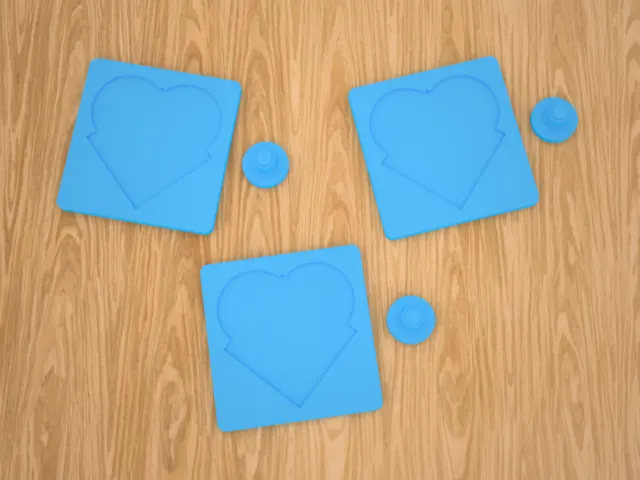
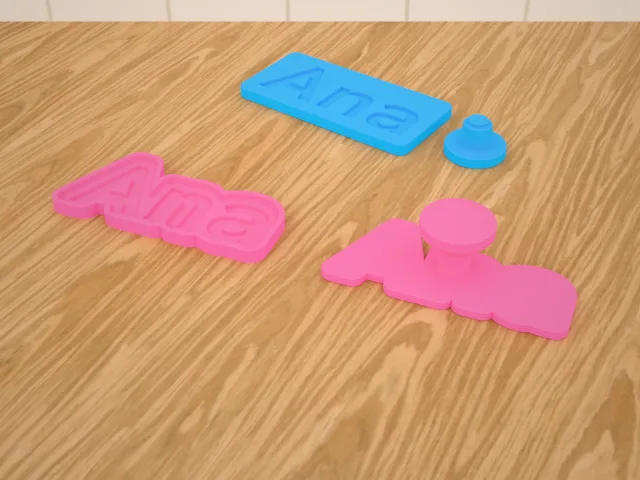
feat: forma para massinha de EVA no molde de carimbo: cavidade, ângulo de saída e costas com apoio de polegar (#252)

diff --git a/src/qa/cases.ts b/src/qa/cases.ts
@@ -63,7 +63,7 @@ export async function modelCtx(M: ManifoldToplevel, p: Params, def: ModelDef): P
 }
 
 /** Variações extras por modelo (além de padrão, mínimo e máximo): opções que mudam a peça e precisam fatiar também. */
-const QA_EXTRA: Record<string, Record<string, Params>> = { starMap: { "estrelas vazadas": { hollow: true, density: "few" } }, musicCard: { QR: { code: "qr", codeSize: 44 } }, wallLetters: { "FESTA 600 mm (muitas partes)": { height: 600 } }, kitBicho: { saurópode: { head: "sauro", tail: "thick" }, "T-rex": { head: "trex", tail: "thick" } }, aroma: { "teste da rosca": { print: "test" }, "sem olhal, folga larga": { keyring: false, clearance: 0.6 }, "feltro grande, muitos furos": { feltDiameter: 45, holes: 16, holeDiameter: 3 }, coração: { shape: "heart" }, gota: { shape: "drop", edge: "chamfer" }, hexágono: { shape: "hex", knurl: false, edge: "none" } }, openerImage: { lata: { kind: "can" }, "abridor à direita, argola à esquerda": { openerSide: "right", ringSide: "left" }, "abridor fora do desenho": { fit: false }, "abridor dentro do desenho (manual)": { fit: false, overlap: 15 }, "sem borda levantada": { rim: false } }, cupHandle: { "anel de teste": { print: "test" }, "copo pequeno": { baseDiameter: 62, topDiameter: 78, bodyHeight: 165, gripZ: 45, sleeveHeight: 35 }, "nome gravado": { nameMode: "engraved" }, "luva vazada": { sleeveStyle: "cutouts" }, "luva com faixas": { sleeveStyle: "bands" }, "sem marcas de dedo, sem fantasma": { grooves: false, showCup: false } }, kitCard: { veículo: { mode: "vehicle" }, "vários cartões": { cardSize: "medium", ribs: 3, spines: 1, copies: 4 }, "uma placa lateral": { spines: 1 } }, candyMold: { "forma de teste": { print: "test" }, estrela: { shape: "star", stampText: "Ana" }, flor: { shape: "flower" }, barrinha: { shape: "bar", weight: 40, depth: 12 } }, drainCover: { "só cobre": { style: "cover" }, "com furos": { style: "strainer" } }, funnel: { "sem borda reforçada": { bead: false } }, oring: { "sem achatar": { flat: false } }, boardBox: { "bandeja de teste": { print: "test" }, parafuso: { mount: "screws" }, "Raspberry Pi 4": { boardL: 85, boardW: 56, boardT: 1.4, holes: "3.5, 3.5; 61.5, 3.5; 3.5, 52.5; 61.5, 52.5", holeD: 2.7, connectors: "right, 10.25, 16.5, 14, 0\nright, 29, 15, 16, 0\nright, 47, 15, 16, 0\nbottom, 11.2, 9.5, 4, 0\nbottom, 26, 8, 4, 0" }, "sem furos (só apoios)": { holes: "", mount: "pads", boardL: 51.5, boardW: 28.3, connectors: "left, 14.2, 9, 4.5, 0" } }, spoolHolder: { "eixo em 2 partes": { axleParts: "two" }, "parede grossa": { axleWall: 8 } }, drillJig: { "sem batente": { lip: false } }, radiusGauge: { "raios grandes": { radii: "10; 12; 15; 20; 25; 30" } }, slingshot: { "nome gravado": { nameMode: "engraved" }, "sem nome": { nameMode: "none" } }, phoneCase: { "peça de teste": { print: "test" }, X: { pattern: "cross" }, "com nome": { name: "Ana", pattern: "smooth" } } };
+const QA_EXTRA: Record<string, Record<string, Params>> = { starMap: { "estrelas vazadas": { hollow: true, density: "few" } }, musicCard: { QR: { code: "qr", codeSize: 44 } }, wallLetters: { "FESTA 600 mm (muitas partes)": { height: 600 } }, kitBicho: { saurópode: { head: "sauro", tail: "thick" }, "T-rex": { head: "trex", tail: "thick" } }, aroma: { "teste da rosca": { print: "test" }, "sem olhal, folga larga": { keyring: false, clearance: 0.6 }, "feltro grande, muitos furos": { feltDiameter: 45, holes: 16, holeDiameter: 3 }, coração: { shape: "heart" }, gota: { shape: "drop", edge: "chamfer" }, hexágono: { shape: "hex", knurl: false, edge: "none" } }, openerImage: { lata: { kind: "can" }, "abridor à direita, argola à esquerda": { openerSide: "right", ringSide: "left" }, "abridor fora do desenho": { fit: false }, "abridor dentro do desenho (manual)": { fit: false, overlap: 15 }, "sem borda levantada": { rim: false } }, cupHandle: { "anel de teste": { print: "test" }, "copo pequeno": { baseDiameter: 62, topDiameter: 78, bodyHeight: 165, gripZ: 45, sleeveHeight: 35 }, "nome gravado": { nameMode: "engraved" }, "luva vazada": { sleeveStyle: "cutouts" }, "luva com faixas": { sleeveStyle: "bands" }, "sem marcas de dedo, sem fantasma": { grooves: false, showCup: false } }, kitCard: { veículo: { mode: "vehicle" }, "vários cartões": { cardSize: "medium", ribs: 3, spines: 1, copies: 4 }, "uma placa lateral": { spines: 1 } }, candyMold: { "forma de teste": { print: "test" }, estrela: { shape: "star", stampText: "Ana" }, flor: { shape: "flower" }, barrinha: { shape: "bar", weight: 40, depth: 12 } }, drainCover: { "só cobre": { style: "cover" }, "com furos": { style: "strainer" } }, funnel: { "sem borda reforçada": { bead: false } }, oring: { "sem achatar": { flat: false } }, boardBox: { "bandeja de teste": { print: "test" }, parafuso: { mount: "screws" }, "Raspberry Pi 4": { boardL: 85, boardW: 56, boardT: 1.4, holes: "3.5, 3.5; 61.5, 3.5; 3.5, 52.5; 61.5, 52.5", holeD: 2.7, connectors: "right, 10.25, 16.5, 14, 0\nright, 29, 15, 16, 0\nright, 47, 15, 16, 0\nbottom, 11.2, 9.5, 4, 0\nbottom, 26, 8, 4, 0" }, "sem furos (só apoios)": { holes: "", mount: "pads", boardL: 51.5, boardW: 28.3, connectors: "left, 14.2, 9, 4.5, 0" } }, spoolHolder: { "eixo em 2 partes": { axleParts: "two" }, "parede grossa": { axleWall: 8 } }, drillJig: { "sem batente": { lip: false } }, radiusGauge: { "raios grandes": { radii: "10; 12; 15; 20; 25; 30" } }, slingshot: { "nome gravado": { nameMode: "engraved" }, "sem nome": { nameMode: "none" } }, stampMold: { "forma para massinha": { kind: "clay" }, "forma para massinha invertida, sem saída": { kind: "clay", invert: true, draft: 0 }, "forma no mínimo": { kind: "clay", size: 40, cavity: 3, clayRelief: 0.6, border: 2, wall: 1.2, draft: 0, thumbSize: 15 }, "forma no máximo": { kind: "clay", size: 300, cavity: 6, clayRelief: 3, border: 20, wall: 4, draft: 3, bridge: 5, thumbSize: 45 } }, phoneCase: { "peça de teste": { print: "test" }, X: { pattern: "cross" }, "com nome": { name: "Ana", pattern: "smooth" } } };
 
 /** Padrão, todos os campos numéricos no mínimo e todos no máximo (mais as variações extras do modelo). */
 export function variants(def: ModelDef): [QaCase["variant"], Params][] {

diff --git a/src/geometry/models/stampMold.ts b/src/geometry/models/stampMold.ts
@@ -1,9 +1,11 @@
 import { bedMm } from "../bed";
-import type { CS } from "../manifold";
+import type { CS, Solid } from "../manifold";
 import { fitInto, scoped } from "../shape2d";
-import { MissingInput, roundedRect, solidMesh, type ModelCtx, type ModelOutput } from "./common";
+import { MissingInput, moveMesh, roundedRect, solidMesh, type ModelCtx, type ModelOutput } from "./common";
 
 export type StampMoldParams = {
+  /** "plate": placa para prensar a folha de EVA aquecida; "clay": forma com cavidade para encher de massinha de EVA (#252). */
+  kind?: "plate" | "clay";
   text: string;
   /** Lado maior do desenho. */
   size: number;
@@ -19,6 +21,12 @@ export type StampMoldParams = {
   thumbX: number;
   thumbY: number;
   color: string;
+  /** Só na forma para massinha: borda da base do carimbo em volta do desenho, profundidade da cavidade, quanto o desenho fica mais fundo, parede e ângulo de saída (°). */
+  border?: number;
+  cavity?: number;
+  clayRelief?: number;
+  wall?: number;
+  draft?: number;
 };
 
 export const DEFAULT_STAMP_MOLD: StampMoldParams = {
@@ -34,6 +42,12 @@ export const DEFAULT_STAMP_MOLD: StampMoldParams = {
   thumbX: 0,
   thumbY: 0,
   color: "#0ea5e9",
+  kind: "plate",
+  border: 4,
+  cavity: 4,
+  clayRelief: 1.5,
+  wall: 2,
+  draft: 2,
 };
 
 const CORNER = 4;
@@ -64,6 +78,7 @@ export function buildStampMold(ctx: ModelCtx, p: StampMoldParams): ModelOutput {
     if (!src || src.isEmpty()) throw new MissingInput("Envie um desenho ou digite um texto para ver o molde.");
     if (src !== ctx.art) k(src);
     const design = k(moldDesign(src, p.size, p.bridge));
+    if (p.kind === "clay") return clayMold(M, design, p);
     const b = design.bounds();
     const w = b.max[0] - b.min[0] + 2 * p.margin, h = b.max[1] - b.min[1] + 2 * p.margin;
     const cx = (b.min[0] + b.max[0]) / 2, cy = (b.min[1] + b.max[1]) / 2;
@@ -91,5 +106,75 @@ export function buildStampMold(ctx: ModelCtx, p: StampMoldParams): ModelOutput {
     models.unshift({ name: "Molde", parts: [{ name: "Molde", color: p.color, mesh: solidMesh(plate) }] });
     const warnings = Math.max(w, h) > bedMm() ? [`O molde tem ${Math.round(Math.max(w, h))} mm: passa da mesa de ${bedMm()} mm.`] : [];
     return { models, warnings };
+  });
+}
+
+const CLAY_FLOOR = 1.6; // fundo da forma, embaixo da cavidade
+const BACK_H = 3;
+const SLICE = 0.2; // a saída é feita em degraus de uma camada
+const CLAY_NOTE = "Passe spray antiaderente na forma, encha com massinha de EVA apertando bem nos cantos, alise rente à borda e deixe secar de 1 a 2 dias antes de desenformar. Depois cole as costas no carimbo com cola de EVA ou cola quente.";
+
+/**
+ * Forma para massinha de EVA (#252): cavidade com a base do carimbo (o desenho mais a borda, que liga as partes soltas)
+ * e o desenho mais fundo, paredes com ângulo de saída para desenformar, e as costas com apoio de polegar, que se colam
+ * no carimbo seco. O desenho sai legível na forma: o carimbo virado carimba do jeito certo. Imprime sem suporte.
+ */
+function clayMold(M: ModelCtx["M"], design: CS, p: StampMoldParams): ModelOutput {
+  return scoped((k) => {
+    const cavity = p.cavity ?? 4, wall = p.wall ?? 2;
+    const relief = Math.min(p.clayRelief ?? 1.5, cavity - 1);
+    const tan = Math.tan(((p.draft ?? 0) * Math.PI) / 180);
+    const grow = cavity * tan;
+    const slab = k(k(design.offset((p.border ?? 4) + p.bridge, "Round")).offset(-p.bridge, "Round"));
+    const deep = p.invert ? k(slab.subtract(design)) : design;
+    const top = CLAY_FLOOR + cavity;
+    // cada degrau: a base a partir de onde começa e a região funda desde o fundo, as duas abrindo com a saída
+    const n = tan > 0 ? Math.ceil(cavity / SLICE) : 1;
+    const dz = cavity / n;
+    const steps: Solid[] = [];
+    for (let i = 0; i < n; i++) {
+      const z = CLAY_FLOOR + i * dz;
+      const level = (cs: CS, from: number) => (tan > 0 && z > from ? k(cs.offset((z - from) * tan, "Round")) : cs);
+      const ring = z + 1e-6 >= CLAY_FLOOR + relief ? k(M.CrossSection.union([level(deep, CLAY_FLOOR), level(slab, CLAY_FLOOR + relief)])) : level(deep, CLAY_FLOOR);
+      steps.push(k(k(ring.extrude(dz + (i === n - 1 ? 1 : 0.001))).translate([0, 0, z])));
+    }
+    if (tan === 0) steps.push(k(k(slab.extrude(cavity - relief + 1)).translate([0, 0, CLAY_FLOOR + relief])));
+    const outer = k(k(slab.offset(wall + grow, "Round")).extrude(top));
+    const mold = k(outer.subtract(k(M.Manifold.union(steps))));
+    // costas: o contorno de cima do carimbo, com o apoio de polegar (haste, aba a 45° e disco) em pé, sem suporte
+    const back = k(slab.offset(grow, "Round"));
+    const bb = back.bounds();
+    const parts: Solid[] = [k(back.extrude(BACK_H))];
+    if (p.thumb) {
+      const R = p.thumbSize / 2, r = R * 0.45;
+      const cx = (bb.min[0] + bb.max[0]) / 2, cy = (bb.min[1] + bb.max[1]) / 2;
+      const x = Math.max(bb.min[0] + r, Math.min(bb.max[0] - r, cx + p.thumbX));
+      const y = Math.max(bb.min[1] + r, Math.min(bb.max[1] - r, cy + p.thumbY));
+      const stemH = BACK_H + 10;
+      parts.push(
+        k(
+          k(
+            M.Manifold.union([
+              k(M.Manifold.cylinder(stemH, r, r, 48)),
+              k(k(M.Manifold.cylinder(R - r, r, R, 64)).translate([0, 0, stemH])),
+              k(k(M.Manifold.cylinder(PAD_H, R, R, 64)).translate([0, 0, stemH + R - r])),
+            ]),
+          ).translate([x, y, 0]),
+        ),
+      );
+    }
+    const backSolid = k(M.Manifold.union(parts));
+    const mb = mold.boundingBox();
+    const shift = mb.max[0] - bb.min[0] + GAP + (p.thumb ? p.thumbSize / 2 : 0);
+    const w = mb.max[0] - mb.min[0], h = mb.max[1] - mb.min[1];
+    const warnings = [CLAY_NOTE];
+    if (Math.max(w, h) > bedMm()) warnings.push(`A forma tem ${Math.round(Math.max(w, h))} mm: passa da mesa de ${bedMm()} mm.`);
+    return {
+      models: [
+        { name: "Forma", parts: [{ name: "Forma", color: p.color, mesh: solidMesh(mold) }] },
+        { name: "Costas", parts: [{ name: "Costas", color: p.color, mesh: moveMesh(solidMesh(backSolid), shift, 0) }] },
+      ],
+      warnings,
+    };
   });
 }

diff --git a/src/geometry/models/stampMold.test.ts b/src/geometry/models/stampMold.test.ts
@@ -1,0 +1,73 @@
+import { beforeAll, describe, expect, test } from "vitest";
+import { meshBounds } from "../bounds";
+import { getManifold, type ManifoldToplevel, type Solid } from "../manifold";
+import type { Mesh } from "../types";
+import type { ModelCtx } from "./common";
+import { buildStampMold, DEFAULT_STAMP_MOLD as SM } from "./stampMold";
+
+let M: ManifoldToplevel;
+beforeAll(async () => {
+  M = await getManifold();
+});
+
+const solid = (m: Mesh): Solid => M.Manifold.ofMesh(new M.Mesh({ numProp: 3, vertProperties: m.positions, triVerts: m.indices }));
+const square = (): ModelCtx => ({ M, art: M.CrossSection.square([20, 20], true), text: () => null }); // vira 40 × 40
+const CLAY = { ...SM, kind: "clay" as const, size: 40, border: 5, bridge: 0, draft: 0, cavity: 4, clayRelief: 1.5, wall: 2, thumb: false };
+const FLOOR = 1.6;
+// área da base (quadrado 40 + borda 5 arredondada) e do desenho
+const slabArea = 40 * 40 + 4 * 40 * 5 + Math.PI * 25;
+
+describe("forma para massinha de EVA (#252)", { timeout: 30_000 }, () => {
+  test("cavidade: base do carimbo (desenho + borda) e o desenho mais fundo; forma e costas fechadas e na mesa", () => {
+    const out = buildStampMold(square(), CLAY);
+    expect(out.models.map((m) => m.name)).toEqual(["Forma", "Costas"]);
+    const [mold, back] = out.models.map((m) => solid(m.parts[0].mesh));
+    for (const s of [mold, back]) expect(s.status()).toBe("NoError");
+    const mb = meshBounds([out.models[0].parts[0].mesh])!;
+    expect(mb.min[2]).toBeCloseTo(0, 5);
+    expect(mb.max[2]).toBeCloseTo(FLOOR + CLAY.cavity, 3);
+    expect(mb.max[0] - mb.min[0]).toBeCloseTo(40 + 2 * (CLAY.border + CLAY.wall), 0);
+    const outer = (40 + 2 * (CLAY.border + CLAY.wall)) ** 2 - (4 - Math.PI) * (CLAY.border + CLAY.wall) ** 2;
+    const hole = slabArea * (CLAY.cavity - CLAY.clayRelief) + 1600 * CLAY.clayRelief;
+    expect(mold.volume() / (outer * (FLOOR + CLAY.cavity) - hole)).toBeCloseTo(1, 1);
+    expect(back.volume()).toBeCloseTo(slabArea * 3, -1); // costas do tamanho do carimbo, 3 mm
+    expect(out.warnings!.join(" ")).toMatch(/1 a 2 dias/);
+  });
+
+  test("inverter: o fundo da base fica mais fundo e o desenho raso (carimba o espaço em volta)", () => {
+    const normal = solid(buildStampMold(square(), CLAY).models[0].parts[0].mesh);
+    const inv = solid(buildStampMold(square(), { ...CLAY, invert: true }).models[0].parts[0].mesh);
+    // a diferença é a região funda: desenho (1600) contra borda (slab − 1600), na altura do desenho
+    expect(normal.volume() - inv.volume()).toBeCloseTo((slabArea - 2 * 1600) * CLAY.clayRelief, -1);
+  });
+
+  test("ângulo de saída: a cavidade abre para cima (mais larga na boca) e a parede acompanha", () => {
+    const flat = solid(buildStampMold(square(), CLAY).models[0].parts[0].mesh);
+    const out = buildStampMold(square(), { ...CLAY, draft: 3 });
+    const drafted = solid(out.models[0].parts[0].mesh);
+    expect(drafted.status()).toBe("NoError");
+    const width = (s: Solid, z: number) => {
+      const b = s.slice(z).bounds(); // a seção é a parede: o furo de dentro mede a cavidade
+      return b.max[0] - b.min[0];
+    };
+    const grow = CLAY.cavity * Math.tan((3 * Math.PI) / 180);
+    expect(width(drafted, FLOOR + CLAY.cavity - 0.05) - width(flat, FLOOR + CLAY.cavity - 0.05)).toBeCloseTo(2 * grow, 1);
+    const inner = (z: number) => drafted.slice(z).area();
+    expect(inner(FLOOR + 3.9)).toBeLessThan(inner(FLOOR + 1.6)); // mais vazio em cima: sai do molde sem prender
+  });
+
+  test("apoio de polegar nas costas: em pé, sem nada no ar, e mais alto que as costas", () => {
+    const out = buildStampMold(square(), { ...CLAY, thumb: true, thumbX: 100, thumbY: 0 }); // fora: o app traz para dentro
+    const back = out.models[1].parts[0].mesh;
+    const s = solid(back);
+    expect(s.status()).toBe("NoError");
+    expect(s.decompose().length).toBe(1);
+    const b = meshBounds([back])!;
+    expect(b.max[2]).toBeGreaterThan(3 + 10);
+    expect(meshBounds([out.models[0].parts[0].mesh])!.max[0]).toBeLessThan(b.min[0]); // costas ao lado da forma
+  });
+
+  test("a placa para prensar continua sendo o padrão", () => {
+    expect(buildStampMold(square(), { ...SM, thumb: false }).models.map((m) => m.name)).toEqual(["Molde"]);
+  });
+});

diff --git a/src/tools/models/catalog/homeProjects.ts b/src/tools/models/catalog/homeProjects.ts
@@ -268,7 +268,7 @@ export const HOME_PROJECT_MODELS: ModelDef[] = [
     id: "stampMold",
     category: "home",
     label: "Molde para carimbo de EVA",
-    blurb: "Aqueça o EVA (ou use massinha) e prense no molde: o carimbo sai com o desenho e carimba do jeito certo.",
+    blurb: "Placa para prensar EVA aquecido ou forma para encher de massinha de EVA: o carimbo sai com o desenho e carimba do jeito certo.",
     icon: Stamp,
     font: true,
     art: "Desenho do carimbo (opcional)",
@@ -277,19 +277,33 @@ export const HOME_PROJECT_MODELS: ModelDef[] = [
       {
         title: "Desenho",
         fields: [
+          choice("kind", "Tipo", [["plate", "Placa para prensar EVA"], ["clay", "Forma para massinha de EVA"]], { hint: "A forma para massinha é uma cavidade: encha, deixe secar e o carimbo sai pronto." }),
           text("text", "Texto (se não enviar desenho)", 20),
           num("size", "Tamanho do desenho", 40, 300, { step: 1, hint: "Lado maior." }),
-          bool("invert", "Inverter: desenho em relevo (carimba o fundo)"),
+          bool("invert", "Inverter: carimba o espaço em volta do desenho"),
           num("bridge", "Ligar partes soltas", 0, 5, { step: 0.5, hint: "Fecha vãos de até o dobro deste valor entre letras e pedaços soltos." }),
         ],
       },
       {
-        title: "Molde e apoio",
+        title: "Placa",
+        when: { k: "kind", is: "plate" },
+        fields: [num("depth", "Profundidade", 0.6, 5), num("thickness", "Espessura da placa", 3, 10), num("margin", "Margem", 2, 20, { step: 1 })],
+      },
+      {
+        title: "Forma para massinha",
+        when: { k: "kind", is: "clay" },
         fields: [
-          num("depth", "Profundidade", 0.6, 5),
-          num("thickness", "Espessura da placa", 3, 10),
-          num("margin", "Margem", 2, 20, { step: 1 }),
-          bool("thumb", "Apoio de polegar (peça que encaixa atrás)"),
+          num("cavity", "Profundidade da forma", 3, 6, { step: 0.5, hint: "É a espessura do carimbo pronto." }),
+          num("clayRelief", "Altura do desenho no carimbo", 0.6, 3, { hint: "Quanto o desenho fica mais fundo que a base." }),
+          num("border", "Borda em volta do desenho", 2, 20, { step: 1, hint: "A base do carimbo: liga as letras e partes soltas." }),
+          num("wall", "Parede", 1.2, 4),
+          num("draft", "Ângulo de saída", 0, 3, { step: 0.5, unit: "°", hint: "Parede um pouco aberta: o carimbo seco sai sem rasgar." }),
+        ],
+      },
+      {
+        title: "Apoio e cor",
+        fields: [
+          bool("thumb", "Apoio de polegar (atrás da placa ou nas costas da forma)"),
           num("thumbSize", "Tamanho do apoio", 15, 45, { step: 1 }),
           num("thumbX", "Posição do apoio (→)", -140, 140, { step: 1 }),
           num("thumbY", "Posição do apoio (↑)", -140, 140, { step: 1 }),

diff --git a/src/thumbs/photo/models.ts b/src/thumbs/photo/models.ts
@@ -21,7 +21,7 @@ import { AZIMUTH_DEG, type PhotoItem, type PhotoScene } from "./render";
  * As cenas da foto realista (#251, rodada 2): cada peça montada como se usa e em 3 a 4 cópias com nomes e cores
  * diferentes, espalhadas na mesa. `bevel` arredonda as quinas (0,4 mm) antes de montar a cena.
  */
-export const PHOTO_IDS = ["keychain", "organizer", "medal", "pix", "thermo", "vessel", "pixel", "micHolder"] as const;
+export const PHOTO_IDS = ["keychain", "organizer", "medal", "pix", "thermo", "vessel", "pixel", "micHolder", "stampMold"] as const;
 export type PhotoId = (typeof PHOTO_IDS)[number];
 export type SceneOpts = { bevel?: boolean };
 
@@ -269,6 +269,13 @@ async function micHolders(o: SceneOpts): Promise<PhotoScene> {
   return sceneOf(placed, { heroPad: 0.12 });
 }
 
+// molde de EVA (#252): na frente a forma para massinha com as costas ao lado; atrás, a placa para prensar com o apoio
+async function stampMolds(o: SceneOpts): Promise<PhotoScene> {
+  const clay = await buildModels("stampMold", { kind: "clay", color: "#f472b6" });
+  const plate = await buildModels("stampMold", { color: "#0ea5e9" });
+  return sceneOf([place(await maybeBevel(grounded(clay), o), [], { x: 0, y: -40, rotZ: 6 }), place(await maybeBevel(grounded(plate), o), [], { x: -15, y: 55, rotZ: -8 })], { heroPad: 0, elevation: 38 });
+}
+
 export async function photoScene(id: PhotoId, o: SceneOpts = {}): Promise<PhotoScene> {
   switch (id) {
     case "keychain":
@@ -287,6 +294,8 @@ export async function photoScene(id: PhotoId, o: SceneOpts = {}): Promise<PhotoS
       return pixels(o);
     case "micHolder":
       return micHolders(o);
+    case "stampMold":
+      return stampMolds(o);
   }
 }
 

diff --git a/src/tools/models/help/familyHelp.ts b/src/tools/models/help/familyHelp.ts
@@ -192,8 +192,16 @@ export const FAMILY_HELP: Record<string, GuideHelp> = {
   stamps: {
     use: ["Carimbo de EVA, molde de carimbo, rolo de textura e carimbos de biscoito."],
     avoid: ["Texto espelhado errado: confira a prévia antes de imprimir; o carimbo precisa sair invertido."],
-    tips: ["Superfície lisa e altura de relevo de 1 a 2 mm funcionam bem.", "Lave com água e sabão neutro."],
-    faq: [{ q: "O desenho saiu ao contrário no papel.", a: "O carimbo deve ser impresso espelhado: use o modo que inverte o desenho." }],
+    tips: [
+      "Superfície lisa e altura de relevo de 1 a 2 mm funcionam bem.",
+      "Forma para massinha de EVA: passe spray antiaderente, encha apertando nos cantos e alise rente à borda com uma espátula.",
+      "Lave com água e sabão neutro.",
+    ],
+    faq: [
+      { q: "O desenho saiu ao contrário no papel.", a: "O carimbo deve ser impresso espelhado: use o modo que inverte o desenho." },
+      { q: "Quanto tempo a massinha leva para secar na forma?", a: "De 1 a 2 dias, conforme a espessura e o tempo. Desenforme só quando a massinha estiver firme; depois cole as costas com cola de EVA ou cola quente." },
+      { q: "Placa para prensar ou forma para massinha?", a: "A placa marca uma folha de EVA aquecida e prensada. A forma é uma cavidade: a massinha de EVA seca dentro dela e já sai como carimbo, com o desenho em relevo." },
+    ],
   },
   cutters: {
     use: ["Cortador de biscoito ou massa com carimbo, em grade, ou ejetor de brigadeiro."],

diff --git a/src/thumbs/renderThumb.ts b/src/thumbs/renderThumb.ts
@@ -26,7 +26,7 @@ const MIN_LIGHTNESS = 0.06; // preto vira grafite escuro (continua preto); o rim
 
 /** Entradas que alguns modelos exigem para não abrir vazios. */
 /** Modelos em que o texto é o destaque: a miniatura mostra o texto padrão, não o desenho de exemplo. */
-const TEXT_THUMBS = new Set(["gymDumbbell", "gymKettlebell", "paperClip", "bookThumb", "bookStand"]);
+const TEXT_THUMBS = new Set(["gymDumbbell", "gymKettlebell", "paperClip", "bookThumb", "bookStand", "stampMold"]);
 const INPUTS: Record<string, Params> = { organizerBox: { boxColor: "#0f9d8a", lidColor: "#fbf3df", decorColor: "#0f9d8a" },  pix: { key: "loja@upvision.app", name: "Minha Loja", city: "Sao Paulo" }, coaster: { faceDown: false, text: "Café", borderWidth: 2 }, musicCard: { code: "qr", codeLink: "https://open.spotify.com/track/11dFghVXANMlKmJXsNCbNl", codeSize: 40 }, phoneStandFold: { layout: "assembled", text: "Ana", bodyColor: "#7c8ea6" }, bigFrame: { artW: 150, artH: 190, width: 22, claws: false, back: "none", bodyColor: "#8b5a2b" }, micHolder: { handleColor: "#1c1c1e" } };
 
 export async function buildModels(id: string, patch: Params = {}, view = "closed"): Promise<Model[]> {

diff --git a/tests/e2e/cozinha-casa.e2e.ts b/tests/e2e/cozinha-casa.e2e.ts
@@ -62,6 +62,20 @@ test("molde para carimbo de EVA (#73): abre com o texto, apoio separado, inverte
   await save3mf(page, tauri.files);
 });
 
+test("forma para massinha de EVA (#252): cavidade, costas com apoio, aviso de secagem e Como usar", async ({ page, tauri }) => {
+  await openModel(page, "Molde para carimbo de EVA");
+  await page.getByRole("button", { name: "Forma para massinha de EVA" }).click();
+  await idle(page);
+  await expect(page.locator(".legend")).toContainText("Costas");
+  await expect(page.getByText(/deixe secar de 1 a 2 dias/)).toBeVisible();
+  await page.getByLabel(/^Ângulo de saída/).fill("3");
+  await idle(page);
+  await expect(page.locator(".viewer .overlay")).toHaveCount(0);
+  await save3mf(page, tauri.files);
+  await page.getByText("Como usar").click();
+  await expect(page.getByText(/Quanto tempo a massinha leva para secar/)).toBeVisible();
+});
+
 test("estojo com tampa de rosca (#59): corpo e tampa, nome, mosaico e orelha; 3MF", async ({ page, tauri }) => {
   await openModel(page, "Estojo com tampa de rosca");
   await expect(page.locator(".legend")).toContainText("Tampa");

diff --git a/tests/e2e/photos.e2e.ts b/tests/e2e/photos.e2e.ts
@@ -30,7 +30,7 @@ test("fotos realistas dos modelos", async ({ page }) => {
     warm: Number(process.env.PHOTO_WARM ?? 1),
     extra: JSON.parse(process.env.PHOTO_OPTS ?? "{}"),
     all,
-    special: ["keychain", "organizer", "medal", "pix", "thermo", "vessel", "pixel", "micHolder"],
+    special: ["keychain", "organizer", "medal", "pix", "thermo", "vessel", "pixel", "micHolder", "stampMold"],
   };
   const tag = process.env.PHOTO_TAG ?? `${arg.filament}-${arg.backdrop}`;
   const times: Record<string, unknown> = {};

diff --git a/docs/QA-modelos.md b/docs/QA-modelos.md
@@ -22,7 +22,8 @@ Para cada modelo: valores **padrão**, todos os campos numéricos no **mínimo**
 Peça maior que a mesa de 256 mm do A1 conta como **aviso** quando o app avisa na tela (os campos vão além para
 impressoras de mesa maior); sem o aviso do app, é **falha**.
 
-**Total:** 620 casos · 462 ok · 158 com aviso · 0 com falha · 0 n/a
+
+**Total:** 624 casos · 465 ok · 159 com aviso · 0 com falha · 0 n/a
 
 ## Forja
 
@@ -566,6 +567,10 @@ impressoras de mesa maior); sem o aviso do app, é **falha**.
 | Suporte de carretel (spoolHolder) | mínimo | ✅ ok | Bambu ✓ · Orca ✓ · Projeto Bambu ✓ | 612 | 197,9 | 1 | – | app: Eixo oco inteiro: ≈ 14 g de PLA (parede de 2,5 mm; um eixo maciço seria ≈ 20 g). |
 | Suporte de carretel (spoolHolder) | padrão | ✅ ok | Bambu ✓ · Orca ✓ · Projeto Bambu ✓ | 1214 | 465,2 | 1 | – | app: Eixo oco inteiro: ≈ 83 g de PLA (parede de 3,5 mm; um eixo maciço seria ≈ 258 g). |
 | Suporte de carretel (spoolHolder) | parede grossa | ✅ ok | Bambu ✓ · Orca ✓ · Projeto Bambu ✓ | 1245 | 479,6 | 1 | – | app: Eixo oco inteiro: ≈ 154 g de PLA (parede de 8,0 mm; um eixo maciço seria ≈ 258 g). |
+| Molde para carimbo de EVA (stampMold) | forma no máximo | ⚠ aviso | Bambu ✓ · Orca ✓ | – | – | – | – | o conjunto arrumado ocupa 705,5 × 348,6 mm: passa da mesa de 256 mm; "Forma" não cabe na mesa de 256 mm (340,5 × 348,6 × 7,6 mm); "Costas" não cabe na mesa de 256 mm (332,5 × 340,6 × 29,4 mm); Bambu recusa na mesa de 256 mm do A1 (o app avisa); Orca recusa na mesa de 256 mm do A1 (o app avisa); app: Passe spray antiaderente na forma, encha com massinha de EVA apertando bem nos cantos, alise rente à borda e deixe secar de 1 a 2 dias antes de desenformar. Depois cole as costas no carimbo com cola de EVA ou cola quente.; app: A forma tem 349 mm: passa da mesa de 256 mm. |
+| Molde para carimbo de EVA (stampMold) | forma no mínimo | ✅ ok | Bambu ✓ · Orca ✓ | 19 | 8,5 | 1 | – | app: Passe spray antiaderente na forma, encha com massinha de EVA apertando bem nos cantos, alise rente à borda e deixe secar de 1 a 2 dias antes de desenformar. Depois cole as costas no carimbo com cola de EVA ou cola quente. |
+| Molde para carimbo de EVA (stampMold) | forma para massinha | ✅ ok | Bambu ✓ · Orca ✓ | 48 | 32,2 | 1 | – | app: Passe spray antiaderente na forma, encha com massinha de EVA apertando bem nos cantos, alise rente à borda e deixe secar de 1 a 2 dias antes de desenformar. Depois cole as costas no carimbo com cola de EVA ou cola quente. |
+| Molde para carimbo de EVA (stampMold) | forma para massinha invertida, sem saída | ✅ ok | Bambu ✓ · Orca ✓ | 51 | 33,5 | 1 | – | app: Passe spray antiaderente na forma, encha com massinha de EVA apertando bem nos cantos, alise rente à borda e deixe secar de 1 a 2 dias antes de desenformar. Depois cole as costas no carimbo com cola de EVA ou cola quente. |
 | Molde para carimbo de EVA (stampMold) | máximo | ⚠ aviso | Bambu ✓ · Orca ✓ | 15 | 6,3 | 1 | – | o conjunto arrumado ocupa 386,9 × 340,0 mm: passa da mesa de 256 mm; "Molde" não cabe na mesa de 256 mm (331,9 × 340,0 × 10,0 mm); app: O molde tem 340 mm: passa da mesa de 256 mm. |
 | Molde para carimbo de EVA (stampMold) | mínimo | ✅ ok | Bambu ✓ · Orca ✓ | 14 | 5,9 | 1 | – | – |
 | Molde para carimbo de EVA (stampMold) | padrão | ✅ ok | Bambu ✓ · Orca ✓ | 40 | 26,1 | 1 | – | – |

diff --git a/CHANGELOG.md b/CHANGELOG.md
@@ -3,6 +3,9 @@
 Cada versão aparece para a usuária na tela "O que há de novo" depois da atualização.
 Formato: `## <versão> — <data>` e itens `- …` em linguagem simples.
 
+## Próxima versão (ainda não lançada)
+- **Forma para massinha de EVA (#252)**: o Molde para carimbo de EVA ganhou o tipo **Forma para massinha**. É uma cavidade com o desenho mais fundo e uma borda que liga as letras: encha de massinha de EVA, deixe secar de 1 a 2 dias e o carimbo sai pronto. Tem parede com ângulo de saída para desenformar sem rasgar, inverter (carimba o espaço em volta) e as costas com apoio de polegar, que você cola no carimbo seco.
+
 ## 0.15.1 — 2026-10-25
 - **Canopla de microfone personalizada (#274)**: novo modelo em Criar. Mini microfone para o transmissor sem fio (Hollyland Lark M2, Lark A1, DJI Mic Mini ou qualquer outro, digitando a medida). O meio pode ter formato de cubo, cilindro, coração, estrela, flor ou nuvem, de um tema (casa para arquiteto, halter para academia, cruz para saúde, balão de fala para podcast, livro para professor) ou do seu próprio desenho. Na frente vai texto, logo ou ícone em relevo. Imprime em 2 metades sem suporte, com o cabo à parte. Imprima antes o anel de teste para conferir o encaixe do microfone.
 - **Caixinha termoformada oca, com três fechos novos (#273)**: as duas cascas agora encostam borda com borda, ocas por dentro para balas e enfeites (as placas de base deixaram de ser o padrão). Escolha o fecho: **Conector com porca** (o novo padrão: a porca tem argola e vira o pendurador), **Dobradiça e trava** (como uma Pokébola: a casca é colada num aro e os aros saem prontos, já unidos pela dobradiça) ou **Sem fecho**. As folgas vêm do seu Kit de testes.
